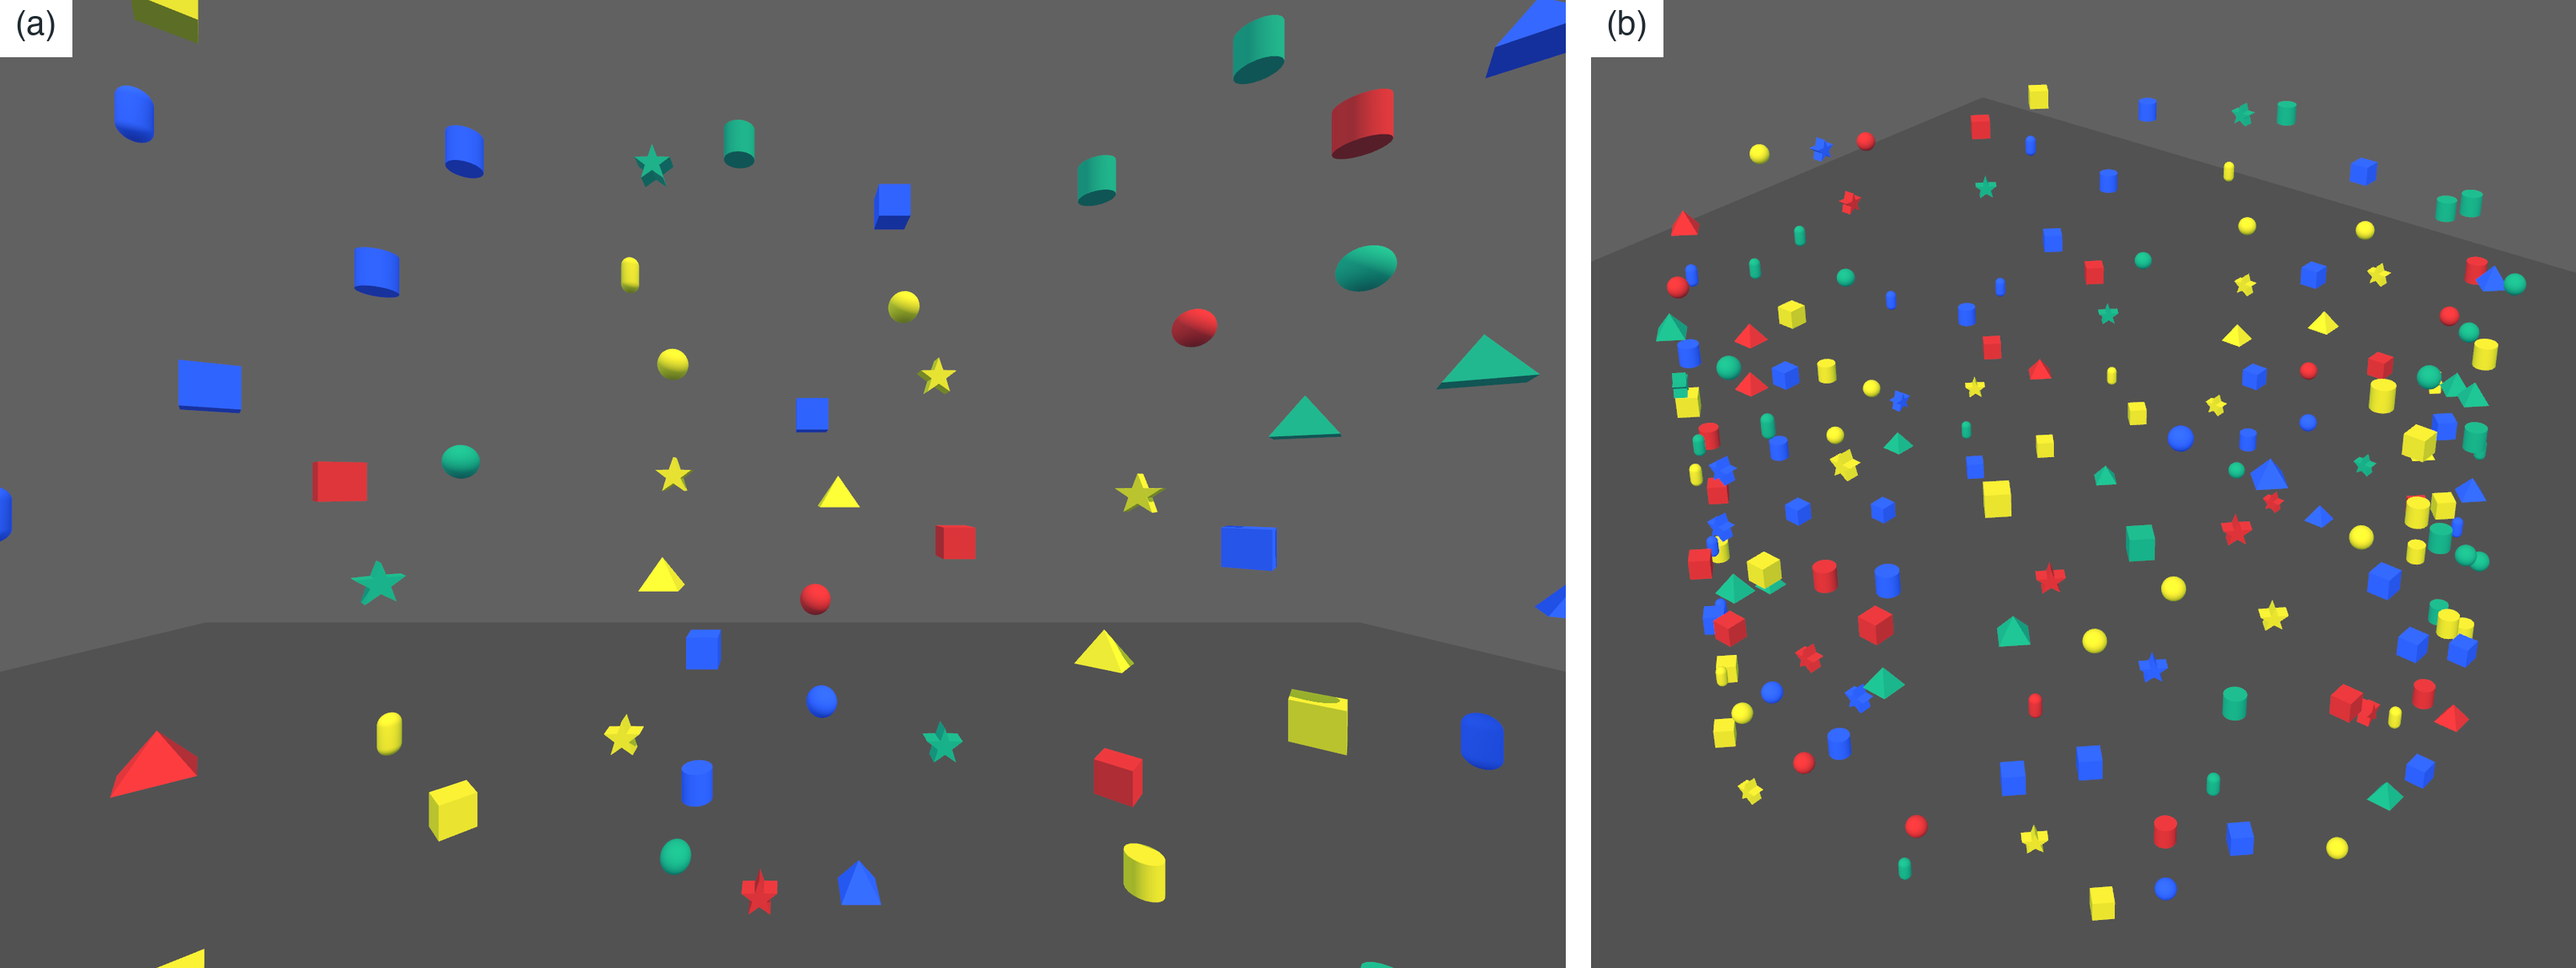
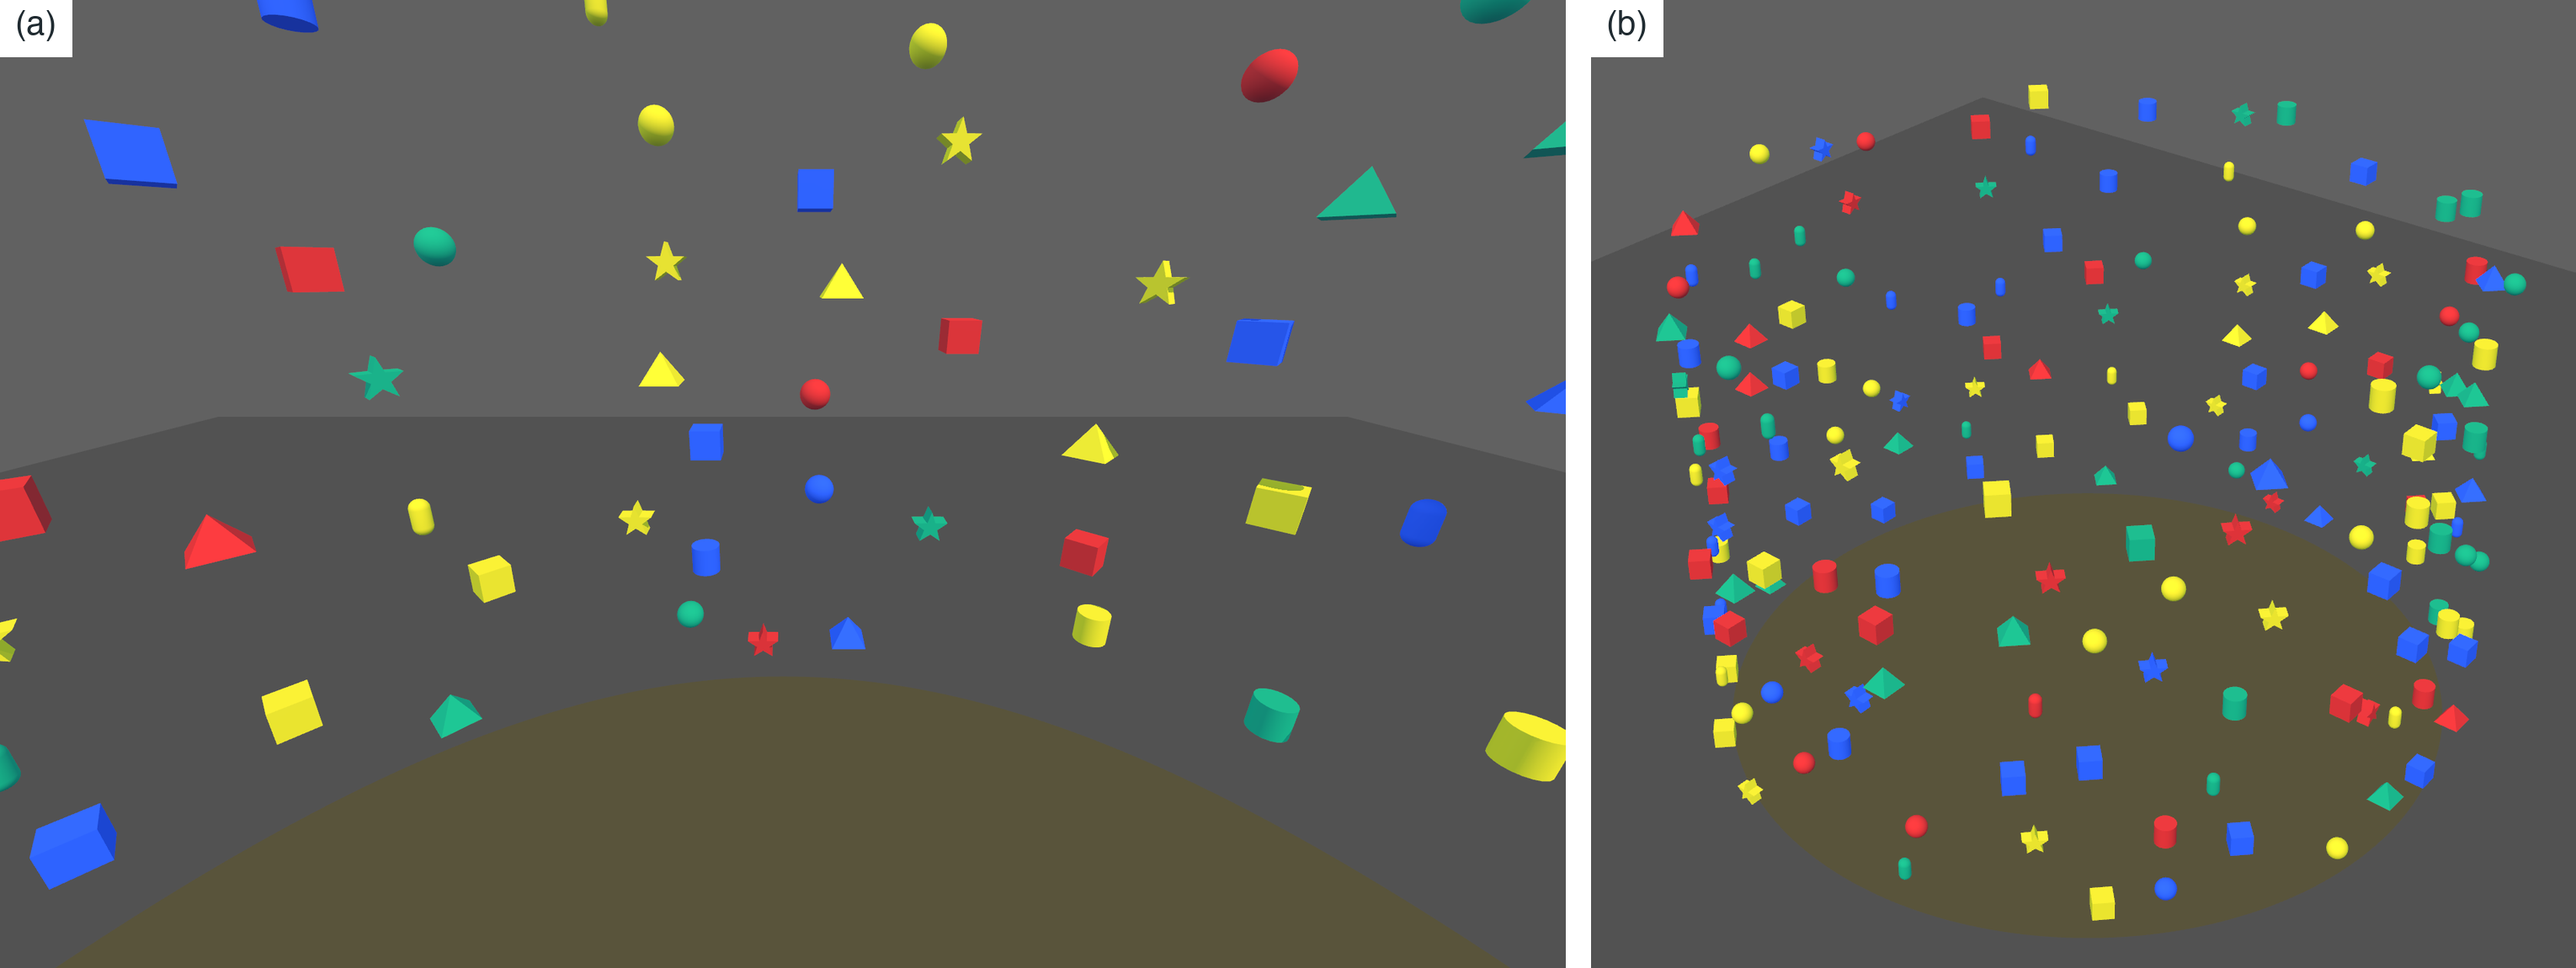
docs(thesis): muted yellow floor circle in the virtual room
Figure 3.3 re-rendered from runtime commit 0f86b44 (neutral-room-v2).

diff --git a/docs/thesis/chapters/03-1-application-design.tex b/docs/thesis/chapters/03-1-application-design.tex
@@ -22,12 +22,12 @@ The application is developed in Unity 6 (6000.3.10f1) using the Unity OpenXR Plu
 \label{fig:htc-vive-focus-vision}
 \end{figure}
 
-The search task takes place in a neutral virtual room with a gray floor and four distant gray walls, 5~m from the seated center (Figure~\ref{fig:virtual-room}). The objects are arranged on eight surrounding vertical object planes that are not drawn in the participant's view. The development configuration contains 168 objects, or 21 per plane, at a default plane radius of 1.5~m from the seated origin. These colored geometric objects hover in space and represent the target and its distractors. Figure~\ref{fig:scene} shows the layout from above. The objects are represented in six shapes---sphere, cube, pyramid, cylinder, capsule, and star---in red, blue, yellow, and green. Objects vary in height and horizontal position within their assigned plane, so search requires both coarse orientation toward a plane and finer search within it once the user's gaze approaches the vicinity of the object. The gaze-contingent agent knows the target identity and the user's gaze data but withholds the target's identity from the user; participants must rely on the agent's auditory guidance to locate the target. Participants select the object by pointing the right-controller ray toward it and pressing the trigger.
+The search task takes place in a neutral virtual room with a gray floor and four distant gray walls, 5~m from the seated center (Figure~\ref{fig:virtual-room}). A muted yellow circle on the floor is centered on the participant, and its 1.5-m radius ends at the object planes. The objects are arranged on eight surrounding vertical object planes that are not drawn in the participant's view. The development configuration contains 168 objects, or 21 per plane, at a default plane radius of 1.5~m from the seated origin. These colored geometric objects hover in space and represent the target and its distractors. Figure~\ref{fig:scene} shows the layout from above. The objects are represented in six shapes---sphere, cube, pyramid, cylinder, capsule, and star---in red, blue, yellow, and green. Objects vary in height and horizontal position within their assigned plane, so search requires both coarse orientation toward a plane and finer search within it once the user's gaze approaches the vicinity of the object. The gaze-contingent agent knows the target identity and the user's gaze data but withholds the target's identity from the user; participants must rely on the agent's auditory guidance to locate the target. Participants select the object by pointing the right-controller ray toward it and pressing the trigger.
 
 \begin{figure}[htbp]
 \centering
-\includegraphics[width=\linewidth,alt={Two views of the virtual room. (a) A seated first-person view of colored spheres, cubes, pyramids, cylinders, capsules and stars hovering in front of a gray wall above a gray floor. (b) A wide view from above and behind showing the objects forming a ring in the middle of the room.}]{figures/virtual-room.png}
-\caption[Virtual search room]{Virtual search room. (a) Seated first-person view. (b) Wide view of the ring of objects inside the room. Both are Unity editor renders of the application's actual room, layout, and object code with a fixed seed and no target highlight, not captures through the headset.}
+\includegraphics[width=\linewidth,alt={Two views of the virtual room. (a) A seated first-person view of colored spheres, cubes, pyramids, cylinders, capsules and stars hovering in front of a gray wall above a gray floor, with the edge of a muted yellow floor circle in the foreground. (b) A wide view from above and behind showing the objects forming a ring around the yellow circle in the middle of the room.}]{figures/virtual-room.png}
+\caption[Virtual search room]{Virtual search room. (a) Seated first-person view, tilted downward to show the floor. (b) Wide view of the ring of objects around the yellow floor circle. Both are Unity editor renders of the application's actual room, layout, and object code with a fixed seed and no target highlight, not captures through the headset.}
 \label{fig:virtual-room}
 \end{figure}
 
